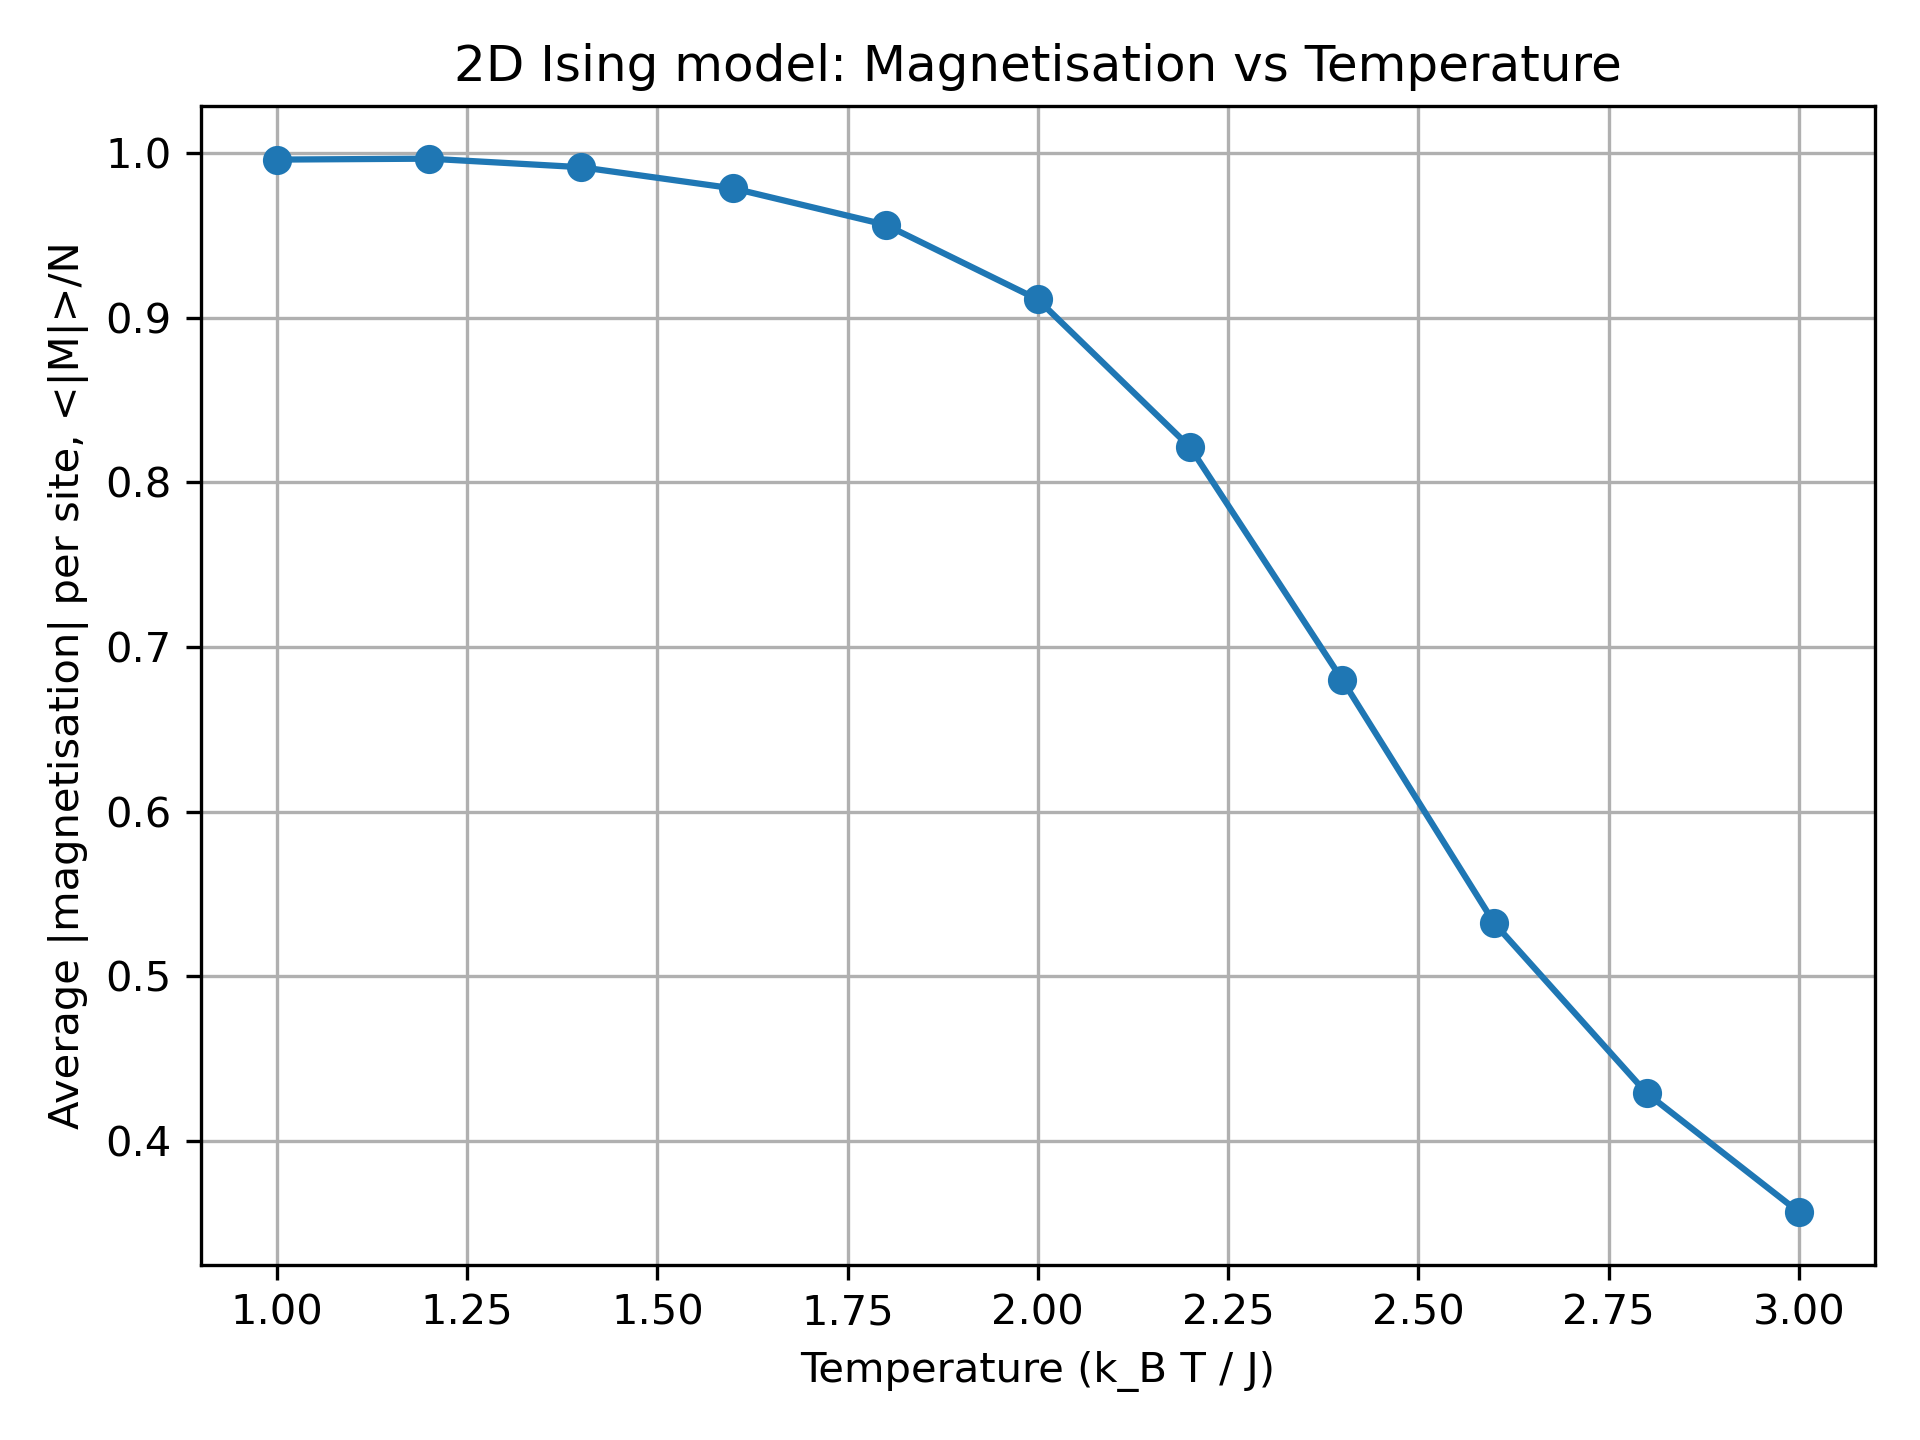
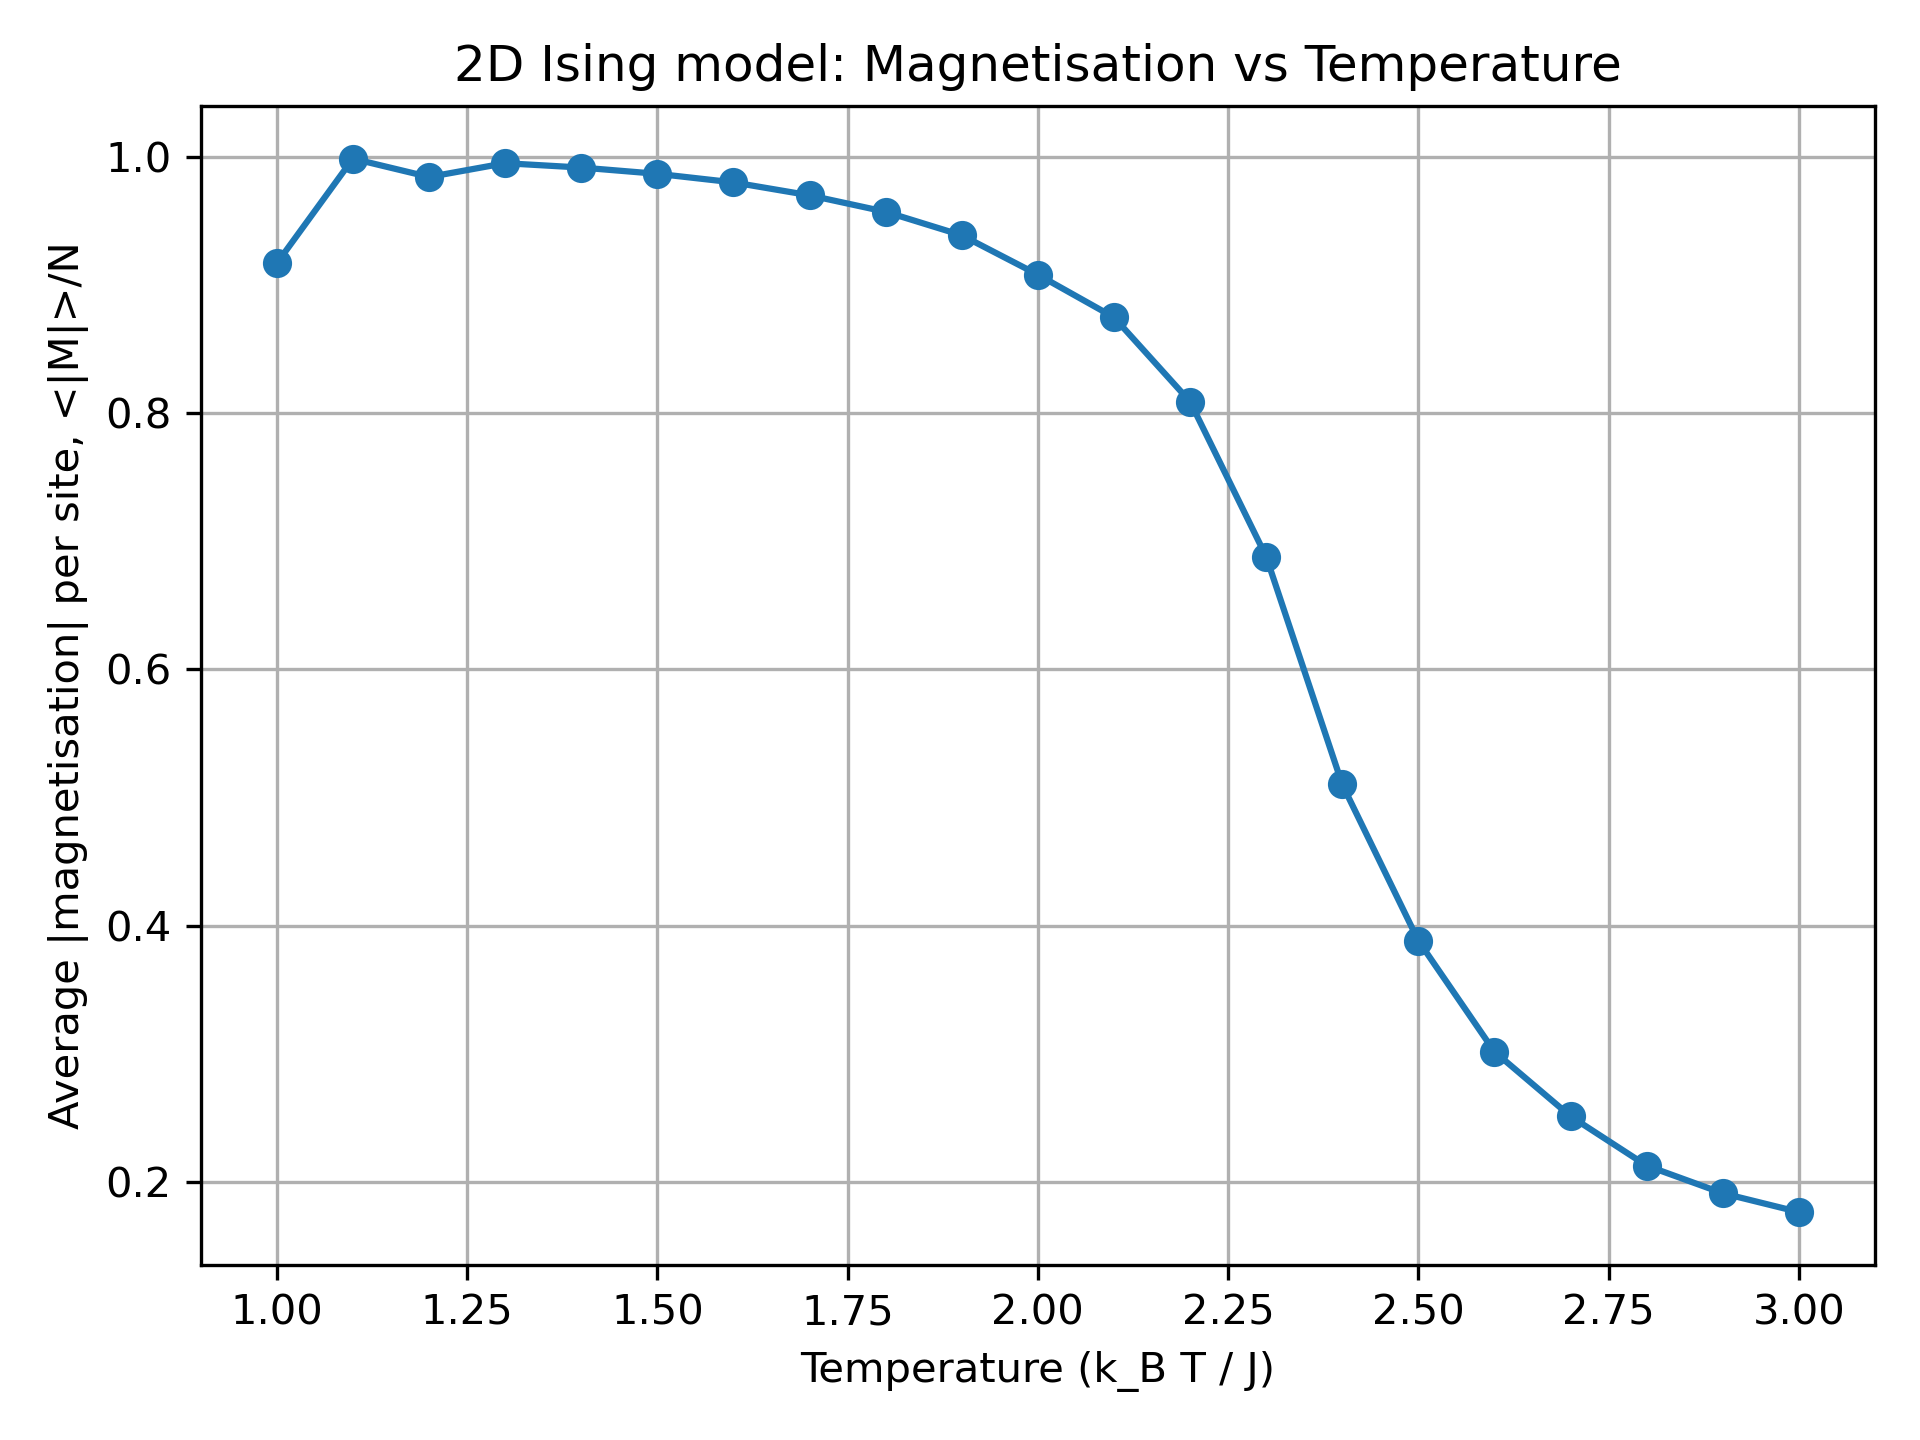
more outputs from running modified task 3 program, and the beginning of the task 4 script

diff --git a/task4.py b/task4.py
@@ -1,0 +1,4 @@
+#!/opt/software/anaconda/python-3.10.9/bin/python
+"""
+XY model
+"""